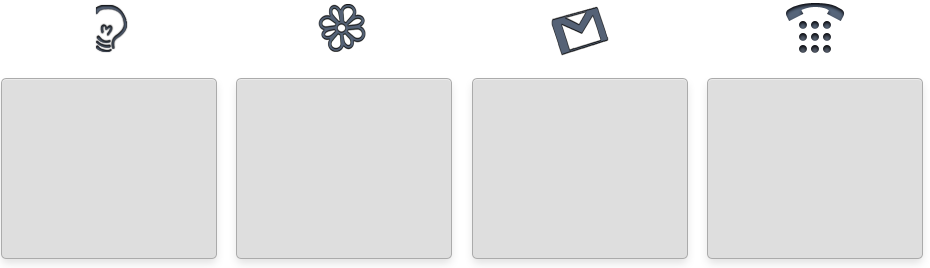
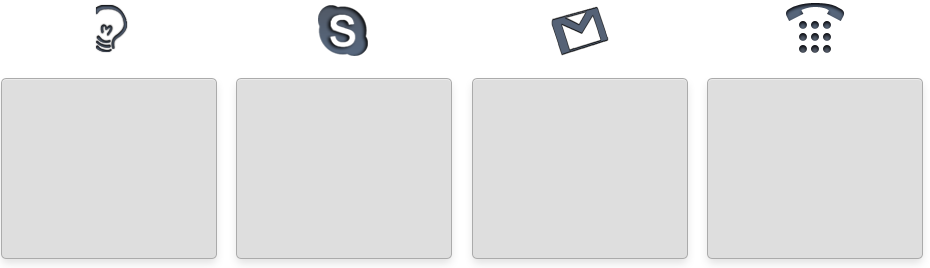
icq replaced on skype, about

Changed region(s): [[0.343, 0.0, 0.4054, 0.209]]

diff --git a/public/templates/about.html b/public/templates/about.html
@@ -1,9 +1,10 @@
 {% extends 'base.html' %}
 {% block title %}About me{% endblock %}
-{% block page_title %}About me{% endblock %}
+{% block page_title %}Hi, There.{% endblock %}
 {% block content %}<div id="about">
         <div class="about-left">
-          {{ about.description }}
+          {{ about.0.description|safe }}
+          <p>Follow my on GitHub as <a href="{{ settings.github }}">d1ffuz0r</a></p>
         </div>
         {% comment %}<div class="about-right">
           <a id="my-cv" href="{{ MEDIA_URL }}{{ settings.cv }}"><button>Download CV</button></a>

diff --git a/public/templates/contacts.html b/public/templates/contacts.html
@@ -7,9 +7,9 @@
           <span>Jabber</span>
           <div class="desc">{{ social.jabber }}</div>
         </div>
-        <div class="contact icq">
-          <span>ICQ</span>
-          <div class="desc">{{ social.icq }}</div>
+        <div class="contact skype">
+          <span>Skype</span>
+          <div class="desc">{{ social.skype }}</div>
         </div>
         <div class="contact email">
           <span>E-mail</span>

diff --git a/public/static/css/style.css b/public/static/css/style.css
@@ -501,7 +501,6 @@ body {
 }
 
 #about .about-left {
-    width: 535px;
     min-height: 300px;
     font: 18px Arial;
     color: #515966;
@@ -537,7 +536,7 @@ body {
     background: url('../images/contacts.png') no-repeat;
 }
 
-#contacts .icq {
+#contacts .skype {
     background-position: -235px 0px;
 }
 
